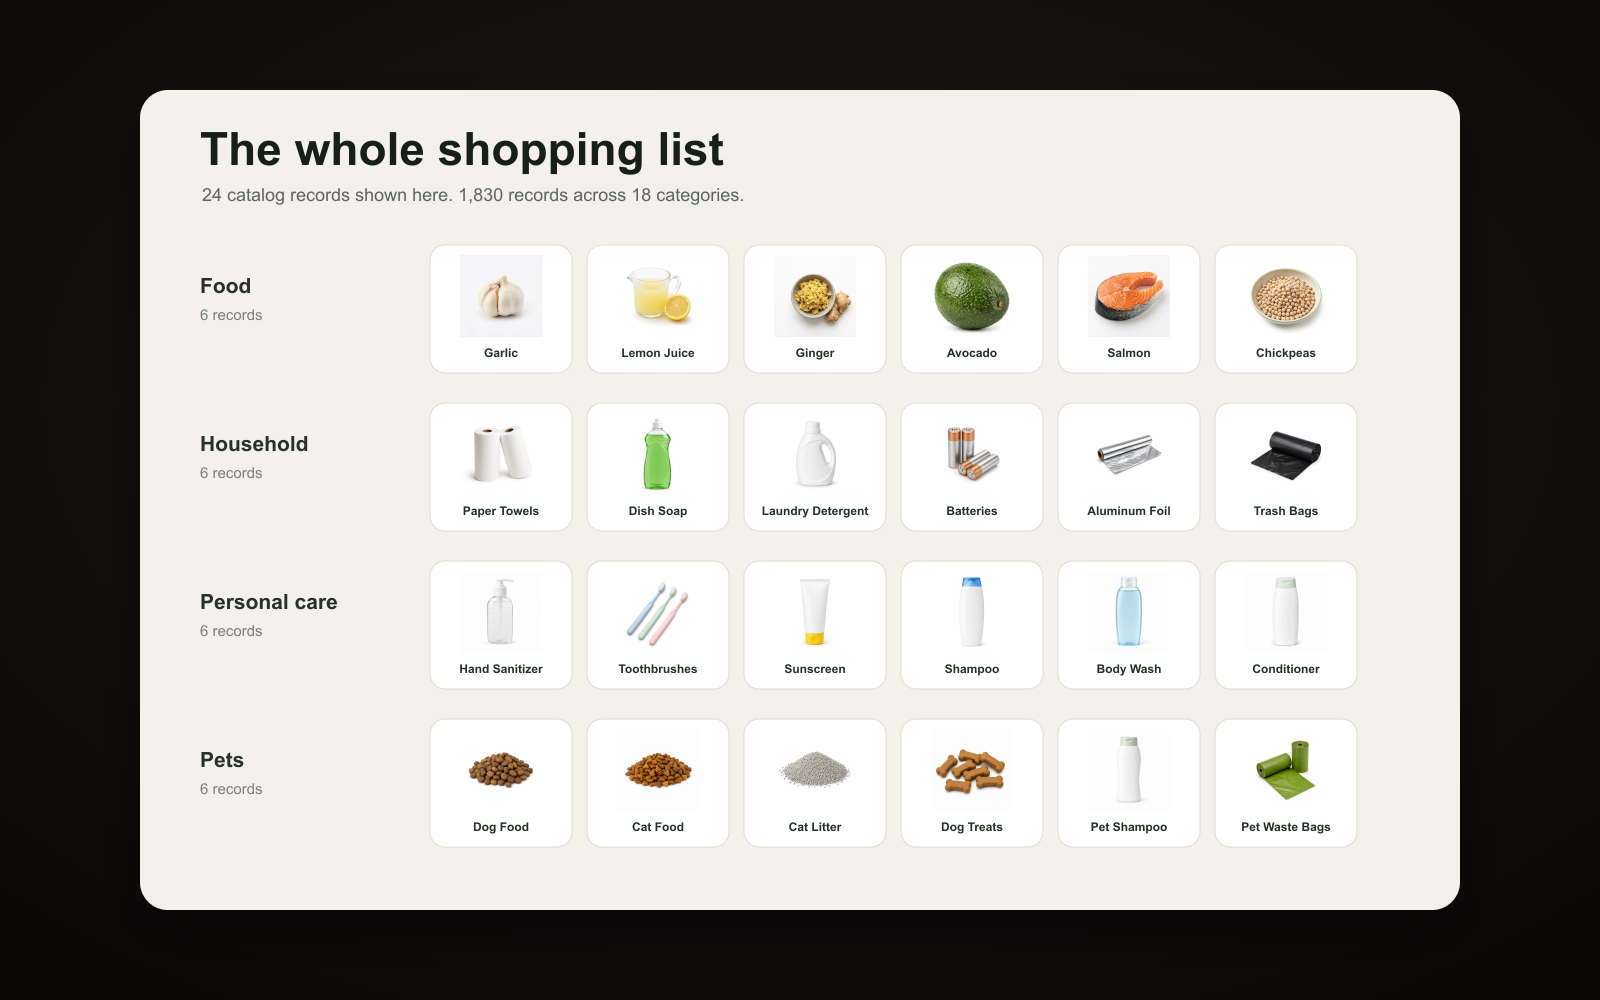
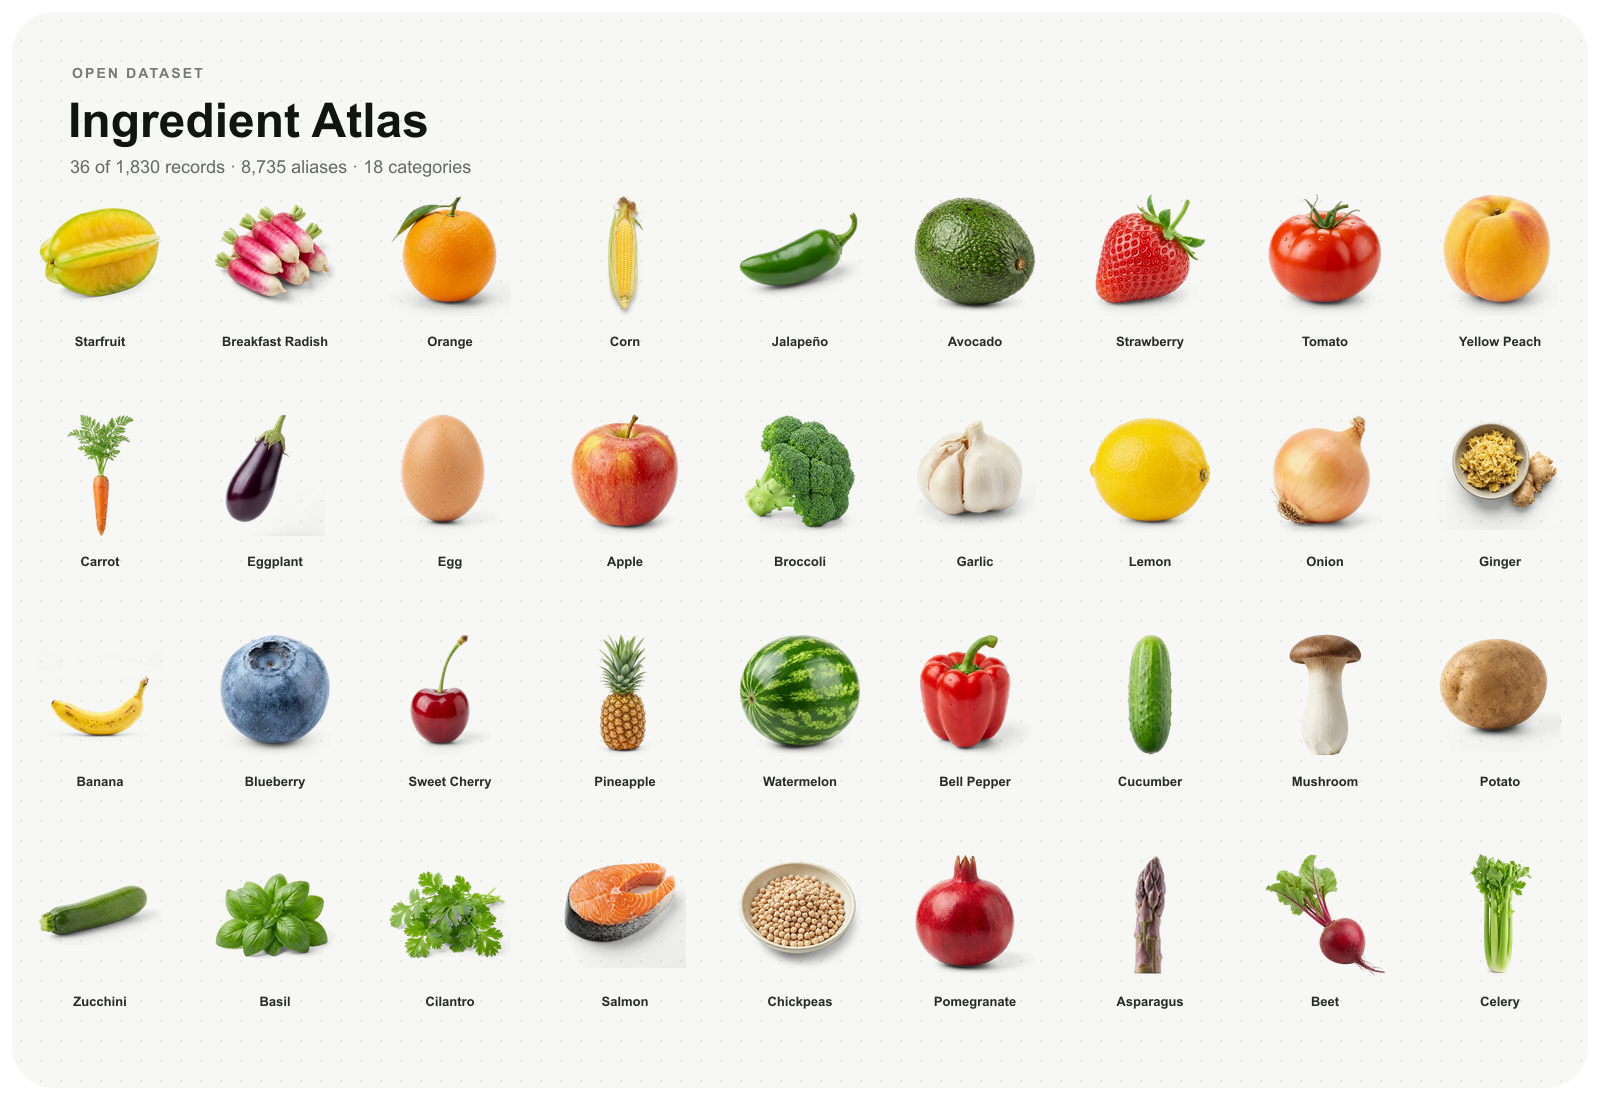
docs: rebuild README as ingredient canvas

diff --git a/README.md b/README.md
@@ -1,6 +1,6 @@
 # Ingredient Atlas
 
-![Ingredient Atlas catalog preview showing food, household, personal-care, and pet items](launch/assets/readme-hero.png)
+![Ingredient Atlas dot-grid canvas with 36 ingredient cutouts and dataset facts](launch/assets/readme-hero.png)
 
 Open ingredient and household catalog images for recipe, grocery, pantry, and meal-planning apps.
 
